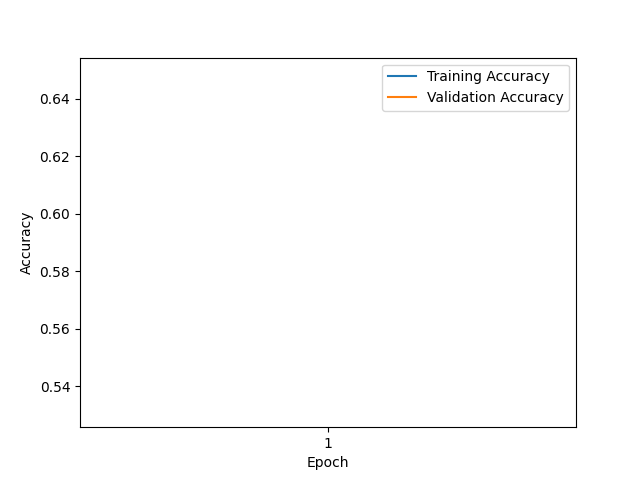
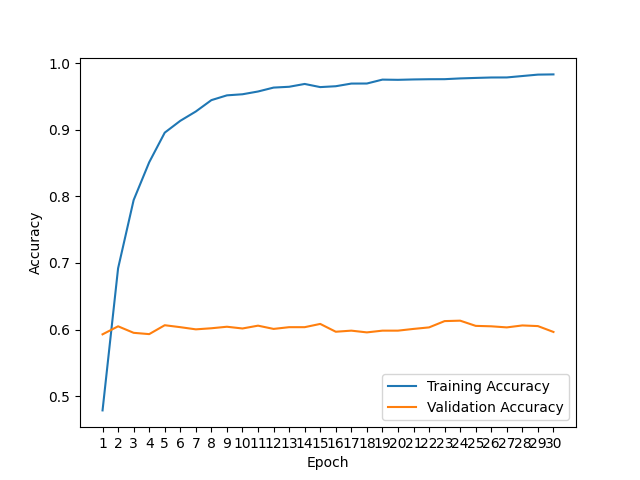
Updated model hyperparameters

diff --git a/model.py b/model.py
@@ -21,32 +21,29 @@ def build_model(input_shape, num_classes, learning_rate):
     # Load pre-trained ResNet50 model
     base_model = ResNet50(weights='imagenet', include_top=False, input_shape=input_shape)
 
-    # Build a sequential model
-    model = Sequential()
+    # Freeze the weights of the ResNet50 layers to prevent training
+    base_model.trainable = False
 
-    # Add ResNet50 as the base model
-    model.add(base_model)
+    # Build the model
+    model = Sequential([
+        base_model,
+        Flatten(),
 
-    # Flatten the output before dense layers
-    model.add(Flatten())
+        # Add Batch Normalization for stability
+        BatchNormalization(),
 
-    # Add Batch Normalization for stability
-    model.add(BatchNormalization())
+        # Add Dropout for regularization
+        Dropout(dropout_rate),
 
-    # Add Dropout for regularization
-    model.add(Dropout(dropout_rate))
+        Dense(256, activation='relu'),
 
-    # Dense layer with ReLU activation
-    model.add(Dense(256, activation='relu'))
+        BatchNormalization(),
 
-    # Add Batch Normalization for stability
-    model.add(BatchNormalization())
+        Dropout(dropout_rate),
 
-    # Add Dropout for regularization
-    model.add(Dropout(dropout_rate))
-
-    # Output layer with softmax activation for multi-class classification
-    model.add(Dense(num_classes, activation='softmax'))
+        # Output layer with softmax activation for multi-class classification
+        Dense(num_classes, activation='softmax')
+    ])
 
     # Compile the model with Adam optimizer and sparse categorical crossentropy loss
     model.compile(optimizer=Adam(learning_rate=learning_rate), loss='sparse_categorical_crossentropy',

diff --git a/main.py b/main.py
@@ -40,7 +40,7 @@ def main():
     model = build_model(input_shape=(200, 200, 3), num_classes=7, learning_rate=0.0001)
 
     # Train the model
-    trained_model, history = train_model(model, x_train, y_train, x_test, y_test, epochs=1)
+    trained_model, history = train_model(model, x_train, y_train, x_test, y_test, epochs=30)
     print(f"Training complete. {len(history.history['accuracy'])} epoch trained.")
 
     # Evaluate the model
